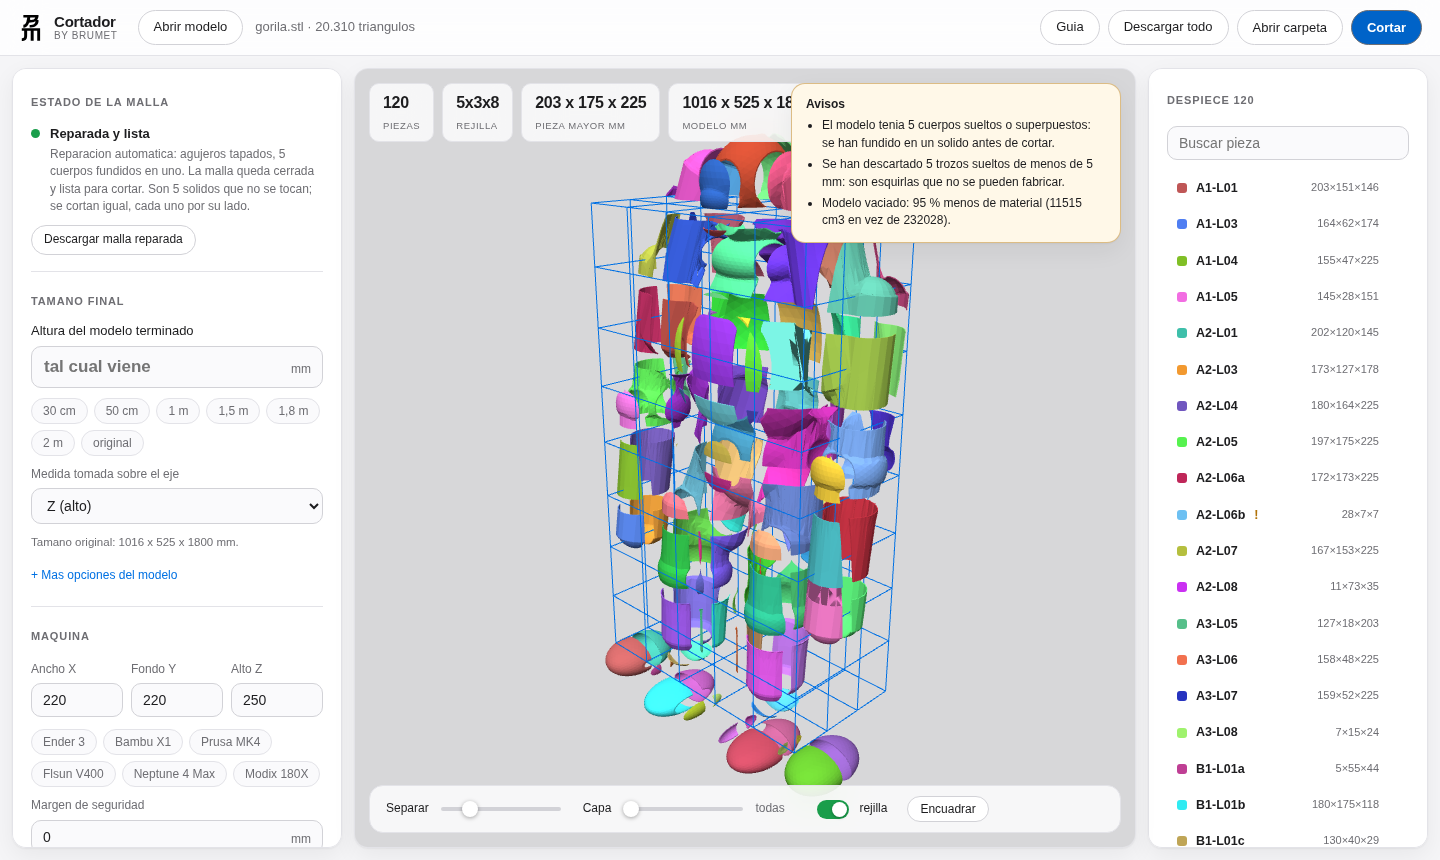
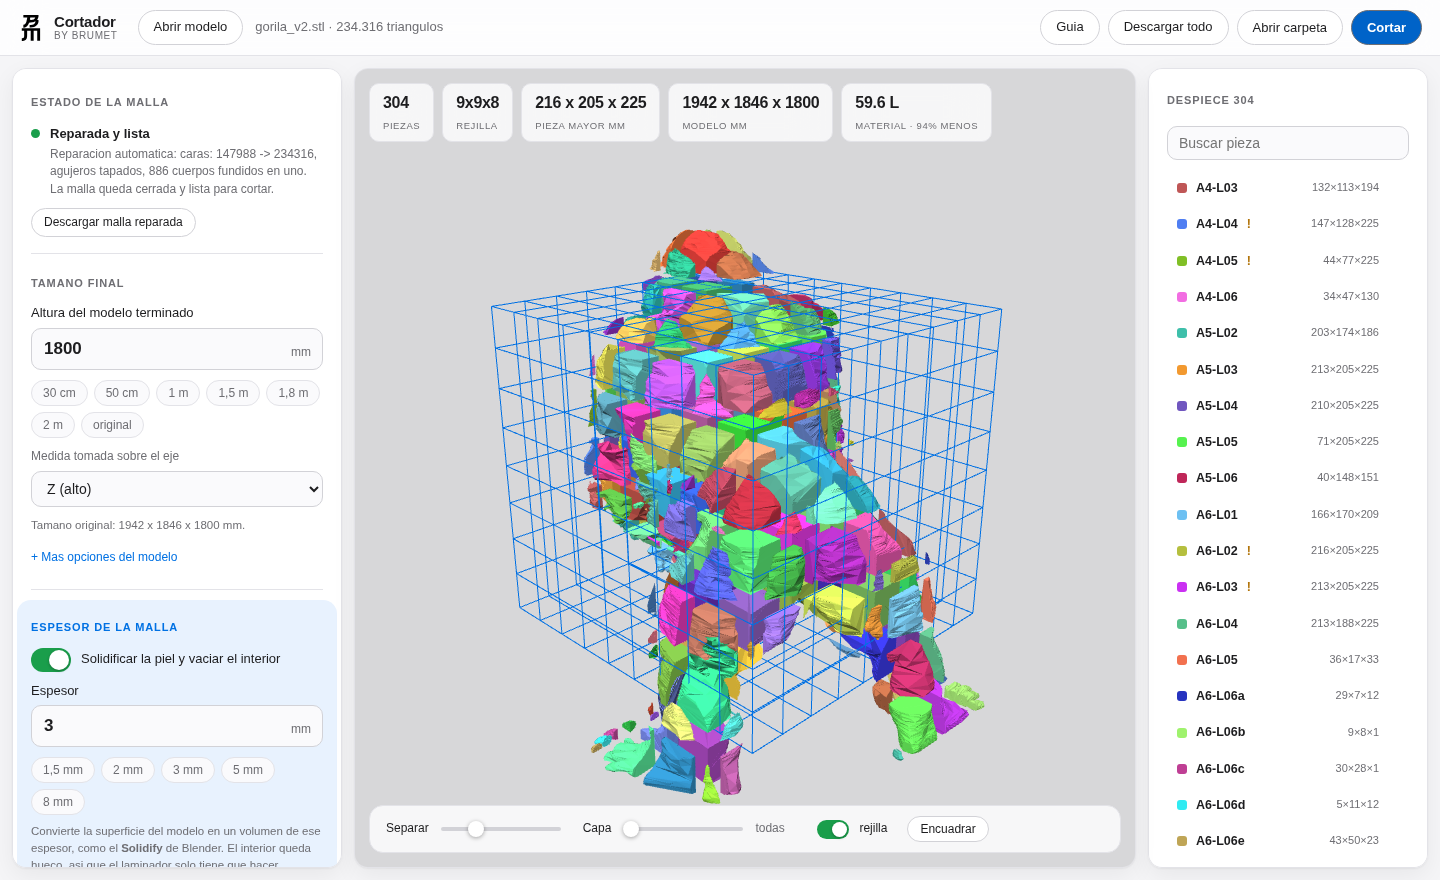
Descartar los recortes mas finos que media pared y capturas con el gorila
Con la piel solidificada a 3 mm, un trozo de 1 mm de grueso es un recorte de la
esquina de una celda, no una pieza: el umbral de grosor pasa a depender del
espesor de la malla.

Las capturas del README son ya con el gorila real y con el indicador de
material, que ensena los litros y cuanto se ahorra frente al macizo.

Claude-Session: https://claude.ai/code/session_01JgVLBbgaQY1jaN7fB5Dubg

diff --git a/cortador/slicer.py b/cortador/slicer.py
@@ -280,7 +280,11 @@ def _es_util(malla: trimesh.Trimesh, cfg: SliceConfig) -> bool:
     minimo = float(cfg.min_piece)
     # por debajo de dos lineas de extrusion no hay pieza que imprimir, solo
     # una rebaba del corte
-    grosor_minimo = 0.8 if minimo > 0 else 0.05
+    # con la piel solidificada, un trozo mas fino que media pared es un recorte
+    # de la esquina de una celda, no una pieza
+    grosor_minimo = 0.05
+    if minimo > 0:
+        grosor_minimo = max(0.8, cfg.wall * 0.4) if cfg.hollow else 0.8
     if medidas[0] < grosor_minimo:
         return False
     if minimo <= 0:

diff --git a/README.md b/README.md
@@ -117,10 +117,9 @@ cortador app        # o doble clic en el .exe / en Cortador.bat
 
 ![modo laminas](docs/laminas.png)
 
-<p align="center"><i>Una sola capa: dos anillos huecos, cada uno con su plaquita
-de marcado dentro</i></p>
+<p align="center"><i>Una capa aislada, para revisar lo que va en cada altura</i></p>
 
-![lamina hueca](docs/hueco.png)
+![una capa](docs/pieza.png)
 
 <p align="center"><i>Mientras trabaja siempre sabes por donde va</i></p>
 
@@ -190,7 +189,8 @@ algo menos antes de rendirse.
 - Donde el modelo es mas fino que dos veces el espesor, la pieza se queda maciza
   sola: nunca salen piezas de aire.
 - Al encoger un contorno con detalles finos aparecen esquirlas de decimas de
-  milimetro. Cortador las limpia (`--pieza-minima`, 5 mm por defecto).
+  milimetro, y en las esquinas de las celdas quedan recortes mas finos que la
+  propia pared. Cortador los limpia (`--pieza-minima`, 5 mm por defecto).
 - Los trozos sueltos de una misma celda se separan en piezas con nombre propio
   (`A2-L06a`, `A2-L06b`), cada una con su archivo y su marca.
 - En un pico o un pliegue muy cerrado los vertices se cruzarian y apareceria una
